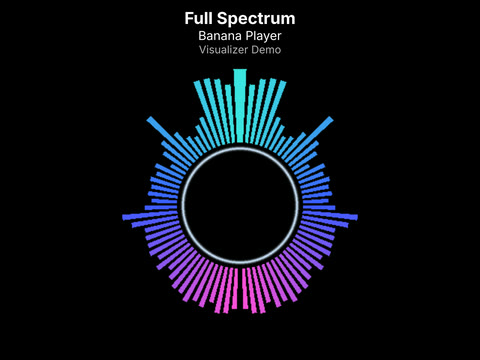
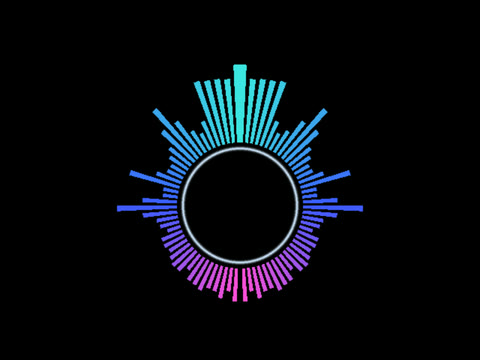
0.7.13: twenty visualizers in the README and FEATURES (five new shots, all reshot with song info off), version bumped

diff --git a/README.md b/README.md
@@ -39,35 +39,42 @@
 
 ## Visualizers
 
-Fifteen looks for your music, picked with **SELECT** while a song plays. Each one also works over the album art.
+Twenty looks for your music, picked with **SELECT** while a song plays. Each one also works over the album art.
 
 <table>
   <tr>
-    <td align="center" width="20%"><img src="docs/img/viz/peaks-yellow.jpg?v=0.7.12" alt="The Peaks visualizer"><br><sub>Peaks</sub></td>
-    <td align="center" width="20%"><img src="docs/img/viz/circle.jpg?v=0.7.12" alt="The Circle visualizer"><br><sub>Circle</sub></td>
-    <td align="center" width="20%"><img src="docs/img/viz/pocket.jpg?v=0.7.12" alt="The Pocket console visualizer"><br><sub>Pocket console</sub></td>
-    <td align="center" width="20%"><img src="docs/img/viz/night-city.jpg?v=0.7.12" alt="The Night city visualizer"><br><sub>Night city</sub></td>
-    <td align="center" width="20%"><img src="docs/img/viz/banana-dancer.jpg?v=0.7.12" alt="The Banana dancer visualizer"><br><sub>Banana dancer</sub></td>
+    <td align="center" width="20%"><img src="docs/img/viz/peaks-yellow.jpg?v=0.7.13" alt="The Peaks visualizer"><br><sub>Peaks</sub></td>
+    <td align="center" width="20%"><img src="docs/img/viz/circle.jpg?v=0.7.13" alt="The Circle visualizer"><br><sub>Circle</sub></td>
+    <td align="center" width="20%"><img src="docs/img/viz/pocket.jpg?v=0.7.13" alt="The Pocket console visualizer"><br><sub>Pocket console</sub></td>
+    <td align="center" width="20%"><img src="docs/img/viz/night-city.jpg?v=0.7.13" alt="The Night city visualizer"><br><sub>Night city</sub></td>
+    <td align="center" width="20%"><img src="docs/img/viz/banana-dancer.jpg?v=0.7.13" alt="The Banana dancer visualizer"><br><sub>Banana dancer</sub></td>
   </tr>
   <tr>
-    <td align="center" width="20%"><img src="docs/img/viz/campfire.jpg?v=0.7.12" alt="The Campfire visualizer"><br><sub>Campfire</sub></td>
-    <td align="center" width="20%"><img src="docs/img/viz/aurora.jpg?v=0.7.12" alt="The Aurora visualizer"><br><sub>Aurora</sub></td>
-    <td align="center" width="20%"><img src="docs/img/viz/sound-garden.jpg?v=0.7.12" alt="The Sound garden visualizer"><br><sub>Sound garden</sub></td>
-    <td align="center" width="20%"><img src="docs/img/viz/pixel-sea.jpg?v=0.7.12" alt="The Pixel sea visualizer"><br><sub>Pixel sea</sub></td>
-    <td align="center" width="20%"><img src="docs/img/viz/bunny-hop.jpg?v=0.7.12" alt="The Bunny hop visualizer"><br><sub>Bunny hop</sub></td>
+    <td align="center" width="20%"><img src="docs/img/viz/campfire.jpg?v=0.7.13" alt="The Campfire visualizer"><br><sub>Campfire</sub></td>
+    <td align="center" width="20%"><img src="docs/img/viz/aurora.jpg?v=0.7.13" alt="The Aurora visualizer"><br><sub>Aurora</sub></td>
+    <td align="center" width="20%"><img src="docs/img/viz/sound-garden.jpg?v=0.7.13" alt="The Sound garden visualizer"><br><sub>Sound garden</sub></td>
+    <td align="center" width="20%"><img src="docs/img/viz/pixel-sea.jpg?v=0.7.13" alt="The Pixel sea visualizer"><br><sub>Pixel sea</sub></td>
+    <td align="center" width="20%"><img src="docs/img/viz/bunny-hop.jpg?v=0.7.13" alt="The Bunny hop visualizer"><br><sub>Bunny hop</sub></td>
   </tr>
   <tr>
-    <td align="center" width="20%"><img src="docs/img/viz/bubble-tea.jpg?v=0.7.12" alt="The Bubble tea visualizer"><br><sub>Bubble tea</sub></td>
-    <td align="center" width="20%"><img src="docs/img/viz/jellyfish.jpg?v=0.7.12" alt="The Jellyfish visualizer"><br><sub>Jellyfish</sub></td>
-    <td align="center" width="20%"><img src="docs/img/viz/music-box.jpg?v=0.7.12" alt="The Music box visualizer"><br><sub>Music box</sub></td>
-    <td align="center" width="20%"><img src="docs/img/viz/fishbowl.jpg?v=0.7.12" alt="The Fishbowl visualizer"><br><sub>Fishbowl</sub></td>
-    <td align="center" width="20%"><img src="docs/img/viz/vibing-cat.jpg?v=0.7.12" alt="The Vibing cat visualizer"><br><sub>Vibing cat</sub></td>
+    <td align="center" width="20%"><img src="docs/img/viz/bubble-tea.jpg?v=0.7.13" alt="The Bubble tea visualizer"><br><sub>Bubble tea</sub></td>
+    <td align="center" width="20%"><img src="docs/img/viz/jellyfish.jpg?v=0.7.13" alt="The Jellyfish visualizer"><br><sub>Jellyfish</sub></td>
+    <td align="center" width="20%"><img src="docs/img/viz/music-box.jpg?v=0.7.13" alt="The Music box visualizer"><br><sub>Music box</sub></td>
+    <td align="center" width="20%"><img src="docs/img/viz/fishbowl.jpg?v=0.7.13" alt="The Fishbowl visualizer"><br><sub>Fishbowl</sub></td>
+    <td align="center" width="20%"><img src="docs/img/viz/vibing-cat.jpg?v=0.7.13" alt="The Vibing cat visualizer"><br><sub>Vibing cat</sub></td>
+  </tr>
+  <tr>
+    <td align="center" width="20%"><img src="docs/img/viz/popcorn-machine.jpg?v=0.7.13" alt="The Popcorn machine visualizer"><br><sub>Popcorn machine</sub></td>
+    <td align="center" width="20%"><img src="docs/img/viz/jelly-wobble.jpg?v=0.7.13" alt="The Jelly wobble visualizer"><br><sub>Jelly wobble</sub></td>
+    <td align="center" width="20%"><img src="docs/img/viz/tube-man.jpg?v=0.7.13" alt="The Tube man visualizer"><br><sub>Tube man</sub></td>
+    <td align="center" width="20%"><img src="docs/img/viz/long-cat.jpg?v=0.7.13" alt="The Long cat visualizer"><br><sub>Long cat</sub></td>
+    <td align="center" width="20%"><img src="docs/img/viz/washing-machine.jpg?v=0.7.13" alt="The Washing machine visualizer"><br><sub>Washing machine</sub></td>
   </tr>
 </table>
 
 ## Install
 
-1. **Download** `BananaPlayer-0.7.12-aarch64.zip` from the [latest release](https://github.com/tonywei92/banana-player/releases/tag/v0.7.12).
+1. **Download** `BananaPlayer-0.7.13-aarch64.zip` from the [latest release](https://github.com/tonywei92/banana-player/releases/tag/v0.7.13).
 2. **Unzip it into `roms/ports`** on your SD card. You should see `Banana Player.sh`, a `BananaPlayer` folder and a
    `media` folder there.
 3. **Open the Ports shelf** on the handheld and choose **Banana Player**.

diff --git a/FEATURES.md b/FEATURES.md
@@ -359,22 +359,26 @@ Songs show their title, artist and album on the top screen. While a song plays:
 
 - **SELECT: Display.** A popup on the bottom screen with two rows. **Show** is **Album art** (default),
   **Art + visualizer** (the visualizer over the bottom of the art), **Visualizer**, or **None** (just the title: the
-  lightest on the battery). **Style** is the visualizer's look: **Peaks** (default: 64 yellow bars, bass on the
-  left, each with a cream cap that stays at the bar's highest point and slowly falls back, over a faint grid),
+  lightest on the battery). **Style** is the visualizer's look, twenty of them: **Peaks** (default: 64 yellow bars, bass on
+  the left, each with a cream cap that stays at the bar's highest point and slowly falls back, over a faint grid),
   **Circle** (bars round a glowing ring, cyan to pink; with Art + visualizer, the album art sits inside the ring),
   **Pocket console** (Peaks on an old handheld's screen: 15 bars of chunky dots in four greens, with falling caps;
   alone, the title is in the same dark green pixel type), **Night city** (a skyline whose windows light up with the
-  music, warm yellow and orange), **Oscilloscope** (the sound's wave as a green trace with a fading glow, over a
-  graticule), **Campfire** (a pixel fire on its logs: each flame leaps with its part of the sound, sparks fly on the
-  treble), **Aurora** (northern lights over a snowy ridge, each stretch of sky as tall and bright as its band),
-  **Sound garden** (pixel flowers that grow with the music and bloom at the peaks, bees passing on the treble),
-  **Turntable** (a spinning record whose grooves glow, bass at the label, treble at the rim; with Art + visualizer,
-  the album art is the label) or **Pixel sea** (moonlit waves: the swell rises with the bass, the chop with the mids,
-  foam on the treble, and a little sailboat rides it). The bar styles move 60 times a second, and each bar stands
-  out from its neighbours so the spectrum has peaks and valleys. With Art + visualizer, every style but Circle and
-  Turntable is laid over the bottom of the art, which shows through around it. Coral Peaks, Hi-fi LED, Synthwave,
-  Banana stack and Heartbeat (earlier styles), and Bars, Waves and Spectrum, are retired: a saved choice of one of
-  them becomes Peaks. The top screen
+  music), **Banana dancer** (a pixel banana dancing on a disco floor: bass bounces it, the mids wave its arms),
+  **Campfire** (each flame leaps with its part of the sound, sparks fly on the treble), **Aurora** (northern lights
+  over a snowy ridge), **Sound garden** (pixel flowers that grow with the music and bloom at the peaks), **Pixel sea**
+  (moonlit waves and a little sailboat), **Bunny hop** (five bunnies, each hopping to its part of the music),
+  **Bubble tea** (pearls bouncing on the bass, fizz up the straw), **Jellyfish** (glowing jellyfish pulsing on the
+  beat), **Music box** (a comb whose teeth glow gold with the music, a turning dancer), **Fishbowl** (three goldfish
+  swimming up with their bands), **Vibing cat** (a cat in headphones nodding along, a coffee steaming beside it),
+  **Popcorn machine** (kernels popping on the beat), **Jelly wobble** (a worried jelly squashing on the bass), **Tube
+  man** (an inflatable tube man dancing faster with the music), **Long cat** (a cat that grows forever, climbing
+  faster with the music, a rainbow light along its edges) or **Washing machine** (shaking and walking on the bass,
+  socks and a duck tumbling). The bar styles' bars stand out from their neighbours, so the spectrum has peaks and
+  valleys. With Art + visualizer, every style but Circle is
+  laid over the bottom of the art, which shows through around it. Coral Peaks, Hi-fi LED, Synthwave, Banana stack,
+  Heartbeat, Oscilloscope, Turntable and Disco ball (earlier styles), and Bars, Waves and Spectrum, are retired: a
+  saved choice of one of them becomes Peaks. The top screen
   changes as you choose. In the popup, the **D-pad** changes a setting, **SELECT** goes to the next Show mode, and
   **B** closes it. The Style row is greyed out for Album art and None, which don't show a visualizer, but it can still
   be changed. A song without art shows its title alone on Album art, and the visualizer on Art + visualizer. Album art
